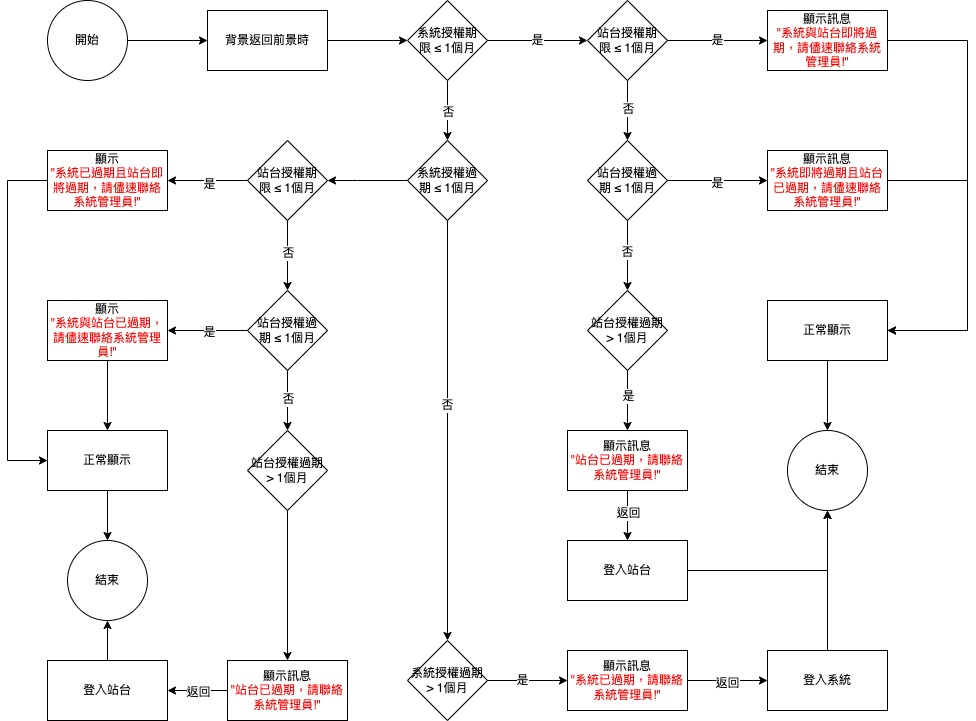
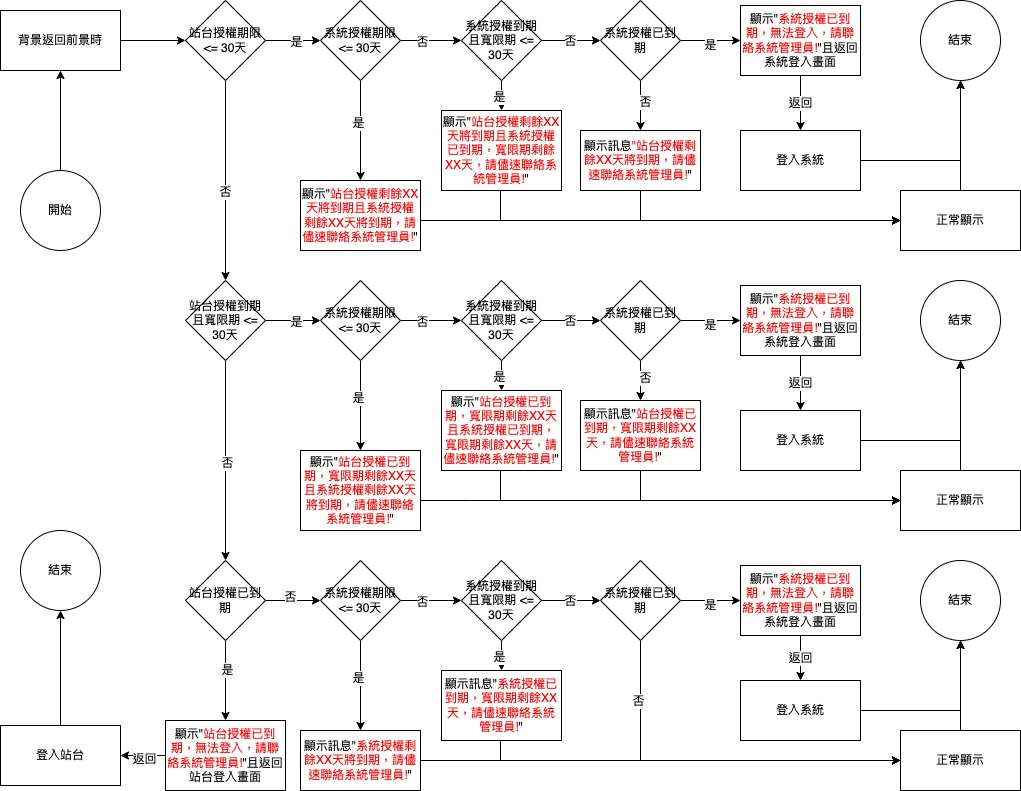
修改授權管理流程圖

diff --git a/8.10.2/UPDATE/ITEM_17/MAE/README.md b/8.10.2/UPDATE/ITEM_17/MAE/README.md
@@ -11,42 +11,42 @@
 
   * 配合授權中心進行授權管理
     * 顯示時機如下
-      * 登入系統時
-        * RTE站台的系統授權期間，登入時會跳出提示訊息
-          * 前期前一個月間顯示<span style="color:blue">"系統即將過期，請儘速聯絡系統管理員!"</span>
-          * 到期後一個月間顯示<span style="color:blue">"系統已過期，請儘速聯絡系統管理員!"</span>
-          * 超過期限後則顯示<span style="color:blue">"系統已過期，請聯絡系統管理員!"</span><span style="color:red">且無法登入該站台</span>
-        * 流程圖
-
-          ![image](../../../MAE/Image/authorization_login_system.jpg)
-      
       * 登入站台時
         * RTE站台的站台授權期間，登入時會跳出提示訊息
-          * 到期前一個月間顯示<span style="color:blue">"站台即將過期，請儘速聯絡系統管理員!"</span>
-          * 到期後一個月間顯示<span style="color:blue">"站台已過期，請儘速聯絡系統管理員!"</span>
-          * 超過期限後則顯示<span style="color:blue">"站台已過期，請聯絡系統管理員!"</span><span style="color:red">且無法登入該系統</span>
+          * 授權到期日為30天內時顯示<span style="color:blue">"站台授權剩餘XX天將到期，請儘速聯絡系統管理員!"</span>
+          * 授權到期但還在為30天內的寬限期內時顯示<span style="color:blue">"站台授權已到期，寬限期剩餘XX天，請儘速聯絡系統管理員!"</span>
+          * 授權到期後則顯示<span style="color:blue">"站台授權已到期，無法登入，請聯絡系統管理員!"</span><span style="color:red">且無法登入該站台</span>
         * 流程圖
 
           ![image](../../../MAE/Image/authorization_login_platform.jpg)
         
+      * 登入系統時
+        * RTE站台的系統授權期間，登入時會跳出提示訊息
+          * 授權到期日為30天內時顯示<span style="color:blue">"系統授權剩餘XX天將到期，請儘速聯絡系統管理員!"</span>
+          * 授權到期但還在為30天內的寬限期內時顯示<span style="color:blue">"系統授權已到期，寬限期剩餘XX天，請儘速聯絡系統管理員!"</span>
+          * 授權到期後則顯示<span style="color:blue">"系統授權已到期，無法登入，請聯絡系統管理員!"</span><span style="color:red">且無法登入該系統</span>
+        * 流程圖
+
+          ![image](../../../MAE/Image/authorization_login_system.jpg)
+      
       * 由背景返回前景時
         * 依RTE站台的授權期限來判斷顯示提示訊息
-          * 當<span style="color:red">系統</span>到期前一個月間
-            * 當<span style="color:red">站台</span>到期前一個月間
-              * 顯示<span style="color:blue">"系統與站台即將過期，請儘速聯絡系統管理員!"</span>
-            * 當<span style="color:red">站台</span>到期後一個月間
-              * 顯示<span style="color:blue">"系統即將過期且站台已過期，請儘速聯絡系統管理員!"</span>
-            * 當<span style="color:red">站台</span>超過期限
-              * 顯示<span style="color:blue">"站台已過期，請聯絡系統管理員!"</span><span style="color:red">且返回站台登入畫面</span>
-          * 當<span style="color:red">系統</span>到期後一個月間
-            * 當<span style="color:red">站台</span>到期前一個月間
-              * 顯示<span style="color:blue">"系統已過期且站台即將過期，請儘速聯絡系統管理員!"</span>
-            * 當<span style="color:red">站台</span>到期後一個月間
-              * 顯示<span style="color:blue">"系統與站台已過期，請儘速聯絡系統管理員!"</span>
-            * 當<span style="color:red">站台</span>超過期限
-              * 顯示<span style="color:blue">"站台已過期，請聯絡系統管理員!"</span><span style="color:red">且返回站台登入畫面</span>
-          * 當<span style="color:red">系統</span>超過期限
-              * 顯示<span style="color:blue">"系統已過期，請聯絡系統管理員!"</span><span style="color:red">且返回系統登入畫面</span>
+          * 當<span style="color:red">站台</span>授權到期日為30天內時
+            * 當<span style="color:red">系統</span>授權到期日為30天內時
+              * 顯示<span style="color:blue">"站台授權剩餘XX天將到期且系統授權剩餘XX天將到期，請儘速聯絡系統管理員!"</span>
+            * 當<span style="color:red">系統</span>到期後但還在30天內的寬限期內時
+              * 顯示<span style="color:blue">"站台授權剩餘XX天將到期且系統授權已到期，寬限期剩餘XX天，請儘速聯絡系統管理員!"</span>
+            * 當<span style="color:red">系統</span>授權到期後
+              * 顯示<span style="color:blue">"系統授權已到期，無法登入，請聯絡系統管理員!"</span><span style="color:red">且返回系統登入畫面</span>
+          * 當<span style="color:red">站台</span>到期後但還在30天內的寬限期內時
+            * 當<span style="color:red">系統</span>授權到期日為30天內時
+              * 顯示<span style="color:blue">"站台授權已到期，寬限期剩餘XX天且系統授權剩餘XX天將到期，請儘速聯絡系統管理員!"</span>
+            * 當<span style="color:red">系統</span>到期後但還在30天內的寬限期內時
+              * 顯示<span style="color:blue">"站台授權已到期，寬限期剩餘XX天且系統授權已到期，寬限期剩餘XX天，請儘速聯絡系統管理員!"</span>
+            * 當<span style="color:red">系統</span>授權到期後
+              * 顯示<span style="color:blue">"系統授權已到期，無法登入，請聯絡系統管理員!"</span><span style="color:red">且返回系統登入畫面</span>
+          * 當<span style="color:red">站台</span>授權到期後
+              * 顯示<span style="color:blue">"站台授權已到期，無法登入，請聯絡系統管理員!"</span><span style="color:red">且返回站台登入畫面</span>
         * 流程圖
 
           ![image](../../../MAE/Image/authorization_background_to_foreground.jpg)

diff --git a/8.10.2/MAE/AuthorizationManagement/README.md b/8.10.2/MAE/AuthorizationManagement/README.md
@@ -1,44 +1,44 @@
 # 授權管理
 
-* #### 登入系統
-
-  * RTE站台的系統授權期間，登入時會跳出提示訊息
-    * 前期前一個月間顯示<span style="color:blue">"系統即將過期，請儘速聯絡系統管理員!"</span>
-    * 到期後一個月間顯示<span style="color:blue">"系統已過期，請儘速聯絡系統管理員!"</span>
-    * 超過期限後則顯示<span style="color:blue">"系統已過期，請聯絡系統管理員!"</span><span style="color:red">且無法登入該站台</span>
-  * 流程圖
-
-    ![image](../Image/authorization_login_system.jpg)
-
 * #### 登入站台
 
   * RTE站台的站台授權期間，登入時會跳出提示訊息
-    * 到期前一個月間顯示<span style="color:blue">"站台即將過期，請儘速聯絡系統管理員!"</span>
-    * 到期後一個月間顯示<span style="color:blue">"站台已過期，請儘速聯絡系統管理員!"</span>
-    * 超過期限後則顯示<span style="color:blue">"站台已過期，請聯絡系統管理員!"</span><span style="color:red">且無法登入該系統</span>
+    * 授權到期日為30天內時顯示<span style="color:blue">"站台授權剩餘XX天將到期，請儘速聯絡系統管理員!"</span>
+    * 授權到期但還在為30天內的寬限期內時顯示<span style="color:blue">"站台授權已到期，寬限期剩餘XX天，請儘速聯絡系統管理員!"</span>
+    * 授權到期後則顯示<span style="color:blue">"站台授權已到期，無法登入，請聯絡系統管理員!"</span><span style="color:red">且無法登入該站台</span>
   * 流程圖
 
     ![image](../Image/authorization_login_platform.jpg)
 
+* #### 登入系統
+
+  * RTE站台的系統授權期間，登入時會跳出提示訊息
+    * 授權到期日為30天內時顯示<span style="color:blue">"系統授權剩餘XX天將到期，請儘速聯絡系統管理員!"</span>
+    * 授權到期但還在為30天內的寬限期內時顯示<span style="color:blue">"系統授權已到期，寬限期剩餘XX天，請儘速聯絡系統管理員!"</span>
+    * 授權到期後則顯示<span style="color:blue">"系統授權已到期，無法登入，請聯絡系統管理員!"</span><span style="color:red">且無法登入該系統</span>
+  * 流程圖
+
+    ![image](../Image/authorization_login_system.jpg)
+
 * #### 背景返回前景
 
   * 依RTE站台的授權期限來判斷顯示提示訊息
-    * 當<span style="color:red">系統</span>到期前一個月間
-      * 當<span style="color:red">站台</span>到期前一個月間
-        * 顯示<span style="color:blue">"系統與站台即將過期，請儘速聯絡系統管理員!"</span>
-      * 當<span style="color:red">站台</span>到期後一個月間
-        * 顯示<span style="color:blue">"系統即將過期且站台已過期，請儘速聯絡系統管理員!"</span>
-      * 當<span style="color:red">站台</span>超過期限
-        * 顯示<span style="color:blue">"站台已過期，請聯絡系統管理員!"</span><span style="color:red">且返回站台登入畫面</span>
-    * 當<span style="color:red">系統</span>到期後一個月間
-      * 當<span style="color:red">站台</span>到期前一個月間
-        * 顯示<span style="color:blue">"系統已過期且站台即將過期，請儘速聯絡系統管理員!"</span>
-      * 當<span style="color:red">站台</span>到期後一個月間
-        * 顯示<span style="color:blue">"系統與站台已過期，請儘速聯絡系統管理員!"</span>
-      * 當<span style="color:red">站台</span>超過期限
-        * 顯示<span style="color:blue">"站台已過期，請聯絡系統管理員!"</span><span style="color:red">且返回站台登入畫面</span>
-    * 當<span style="color:red">系統</span>超過期限
-      * 顯示<span style="color:blue">"系統已過期，請聯絡系統管理員!"</span><span style="color:red">且返回系統登入畫面</span>
+    * 當<span style="color:red">站台</span>授權到期日為30天內時
+      * 當<span style="color:red">系統</span>授權到期日為30天內時
+        * 顯示<span style="color:blue">"站台授權剩餘XX天將到期且系統授權剩餘XX天將到期，請儘速聯絡系統管理員!"</span>
+      * 當<span style="color:red">系統</span>到期後但還在30天內的寬限期內時
+        * 顯示<span style="color:blue">"站台授權剩餘XX天將到期且系統授權已到期，寬限期剩餘XX天，請儘速聯絡系統管理員!"</span>
+      * 當<span style="color:red">系統</span>授權到期後
+        * 顯示<span style="color:blue">"系統授權已到期，無法登入，請聯絡系統管理員!"</span><span style="color:red">且返回系統登入畫面</span>
+    * 當<span style="color:red">站台</span>到期後但還在30天內的寬限期內時
+      * 當<span style="color:red">系統</span>授權到期日為30天內時
+        * 顯示<span style="color:blue">"站台授權已到期，寬限期剩餘XX天且系統授權剩餘XX天將到期，請儘速聯絡系統管理員!"</span>
+      * 當<span style="color:red">系統</span>到期後但還在30天內的寬限期內時
+        * 顯示<span style="color:blue">"站台授權已到期，寬限期剩餘XX天且系統授權已到期，寬限期剩餘XX天，請儘速聯絡系統管理員!"</span>
+      * 當<span style="color:red">系統</span>授權到期後
+        * 顯示<span style="color:blue">"系統授權已到期，無法登入，請聯絡系統管理員!"</span><span style="color:red">且返回系統登入畫面</span>
+    * 當<span style="color:red">站台</span>授權到期後
+      * 顯示<span style="color:blue">"站台已過期，請聯絡系統管理員!"</span><span style="color:red">且返回站台登入畫面</span>
   * 流程圖
 
     ![image](../Image/authorization_background_to_foreground.jpg)

diff --git a/8.10.2/MAE/AuthorizationManagement/_sidebar.md b/8.10.2/MAE/AuthorizationManagement/_sidebar.md
@@ -1,6 +1,6 @@
 # 授權管理
 
 * [上一頁](../README.md)
-* [登入系統](README.md#登入系統)
 * [登入站台](README.md#登入站台)
+* [登入系統](README.md#登入系統)
 * [背景返回前景](README.md#背景返回前景)
